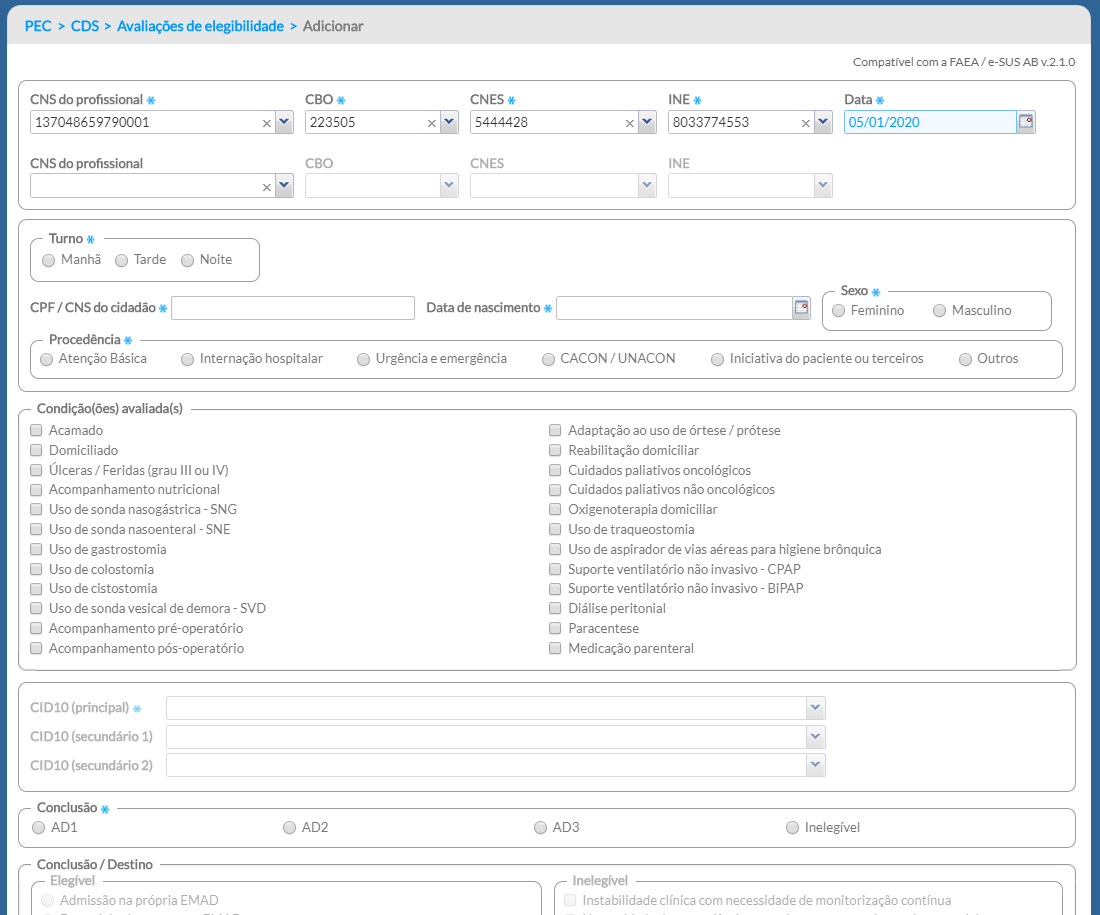
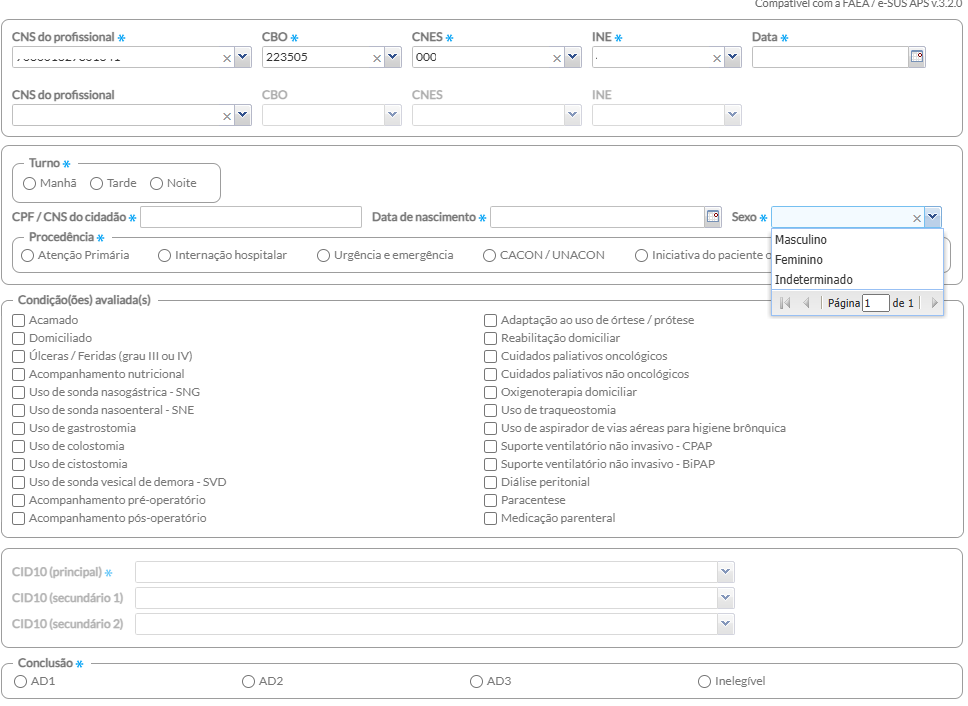
atualizações cds

Changed region(s): [[0.0, 0.0, 1.0, 1.0], [0.8988, 0.1246, 0.9607, 0.1558]]

diff --git a/docs/PEC/PEC_07_cds.md b/docs/PEC/PEC_07_cds.md
@@ -1056,6 +1056,9 @@ c. O campo "Comunicante de hanseníase" somente estará habilitado  após a conf
 {: .atencao }
 Para habilitar o campo e registrar um comunicante de hanseníase, o digitador terá que preencher, no bloco "Vacinação", o campo imunobiológico com a vacina **BCG** e os demais campos obrigatórios. Em seguida deverá clicar no botão "confirmar".
 
+![](media/comunicante.png)
+
+
 ### 7.11.1.3 Vacinação
 
 No bloco "Vacinação" digite o Imunobiológico, a Estratégia, a Dose, o Lote e o Fabricante, conforme preenchido na ficha de vacinação. Em seguida clique no botão ![](media/pec_image740.png) para adicionar o registro do imunobiológico. Para cada imunobiológico repita essa mesma operação.
